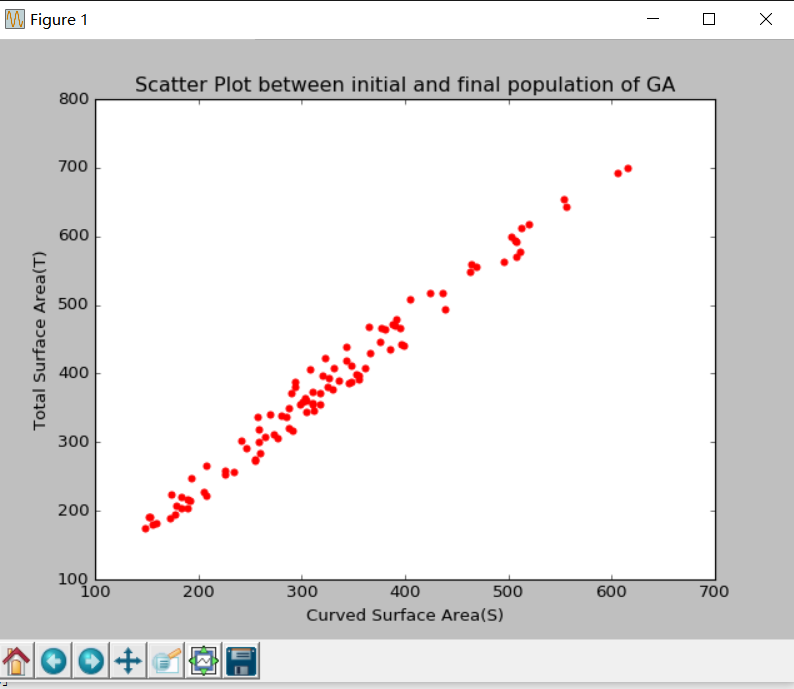
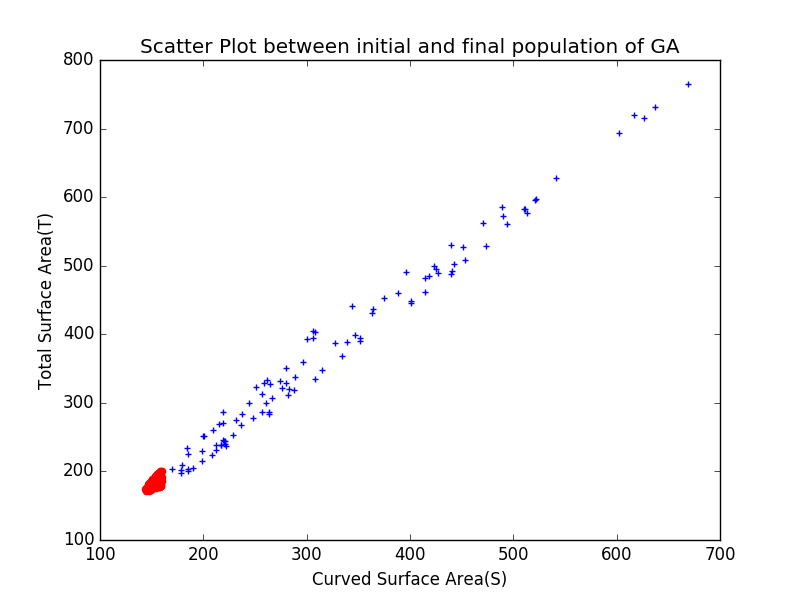
submit for regrade

diff --git a/code/4/ga/pwang13.py b/code/4/ga/pwang13.py
@@ -161,6 +161,12 @@ class Problem(O):
                 # return point
 
 
+
+cone = Problem()
+# point = cone.generate_one()
+# cone.evaluate(point)
+# print (point)
+
 def populate(problem, size):
     population = []
     # TODO 6: Create a list of points of length 'size'
@@ -174,7 +180,7 @@ def populate(problem, size):
 def crossover(mom, dad):
     # TODO 7: Create a new point which contains decisions from
     # the first half of mom and second half of dad
-    print(mom.decisions)
+    # print(mom.decisions)
     n = len(mom.decisions)
     return Point(mom.decisions[:n // 2] + dad.decisions[n // 2:])
 
@@ -196,13 +202,17 @@ def bdom(problem, one, two):
     # TODO 9: Return True/False based on the definition
     # of bdom above.
     # print(objs_one, objs_two)
-    if (objs_two[1] == objs_one[1]):
-        if (objs_one[0] <= objs_two[0]):
-            return True
-    if (objs_one[0] == objs_two[0]):
-        if (objs_one[1] <= objs_two[1]):
-            return True
-    return False
+    first = True
+    second = False
+    for i, _ in enumerate(problem.objectives):
+        if ((first is True) & gt(one.objectives[i], two.objectives[i])):
+            first = False
+        elif (not second & (one.objectives[i] is not two.objectives[i])):
+            second = True
+
+        dominates = first & second
+
+        return dominates
 
 
 def fitness(problem, population, point):
@@ -213,7 +223,7 @@ def fitness(problem, population, point):
     # For example point dominates 5 members of population,
     # then fitness of point is 5.
     for p in population:
-        if bdom(problem, p, point):
+        if bdom(problem, point, p):
             dominates += 1
     return dominates
 
@@ -223,18 +233,28 @@ def elitism(problem, population, retain_size):
     # of the points and return the top 'retain_size' points of the population
     fitnesses = []
     for n in population:
-    	fitnesses.append((n, fitness(problem, population, n)))
+        fitnesses.append((n, fitness(cone, population, n)))
 
-    fitnesses = sorted(fitnesses, key=lambda x: x[1])
+    fitnesses = sorted(fitnesses, key=lambda x: x[1], reverse = True)
 
     results = []
     for x in fitnesses:
-    	results.append(x[0])
+        results.append(x[0])
 
     return results[:retain_size]
 
-
-
+# pop = populate(cone,5)
+# print(pop)
+#
+# mom = cone.generate_one()
+# dad = cone.generate_one()
+# print(mom)
+# print(dad)
+# print(crossover(mom,dad))
+#
+# print(crossover(pop[0],pop[1]))
+# print(bdom(cone,pop[0],pop[1]))
+# print(elitism(cone, pop, 3))
 
 def ga(pop_size=100, gens=250):
     problem = Problem()
